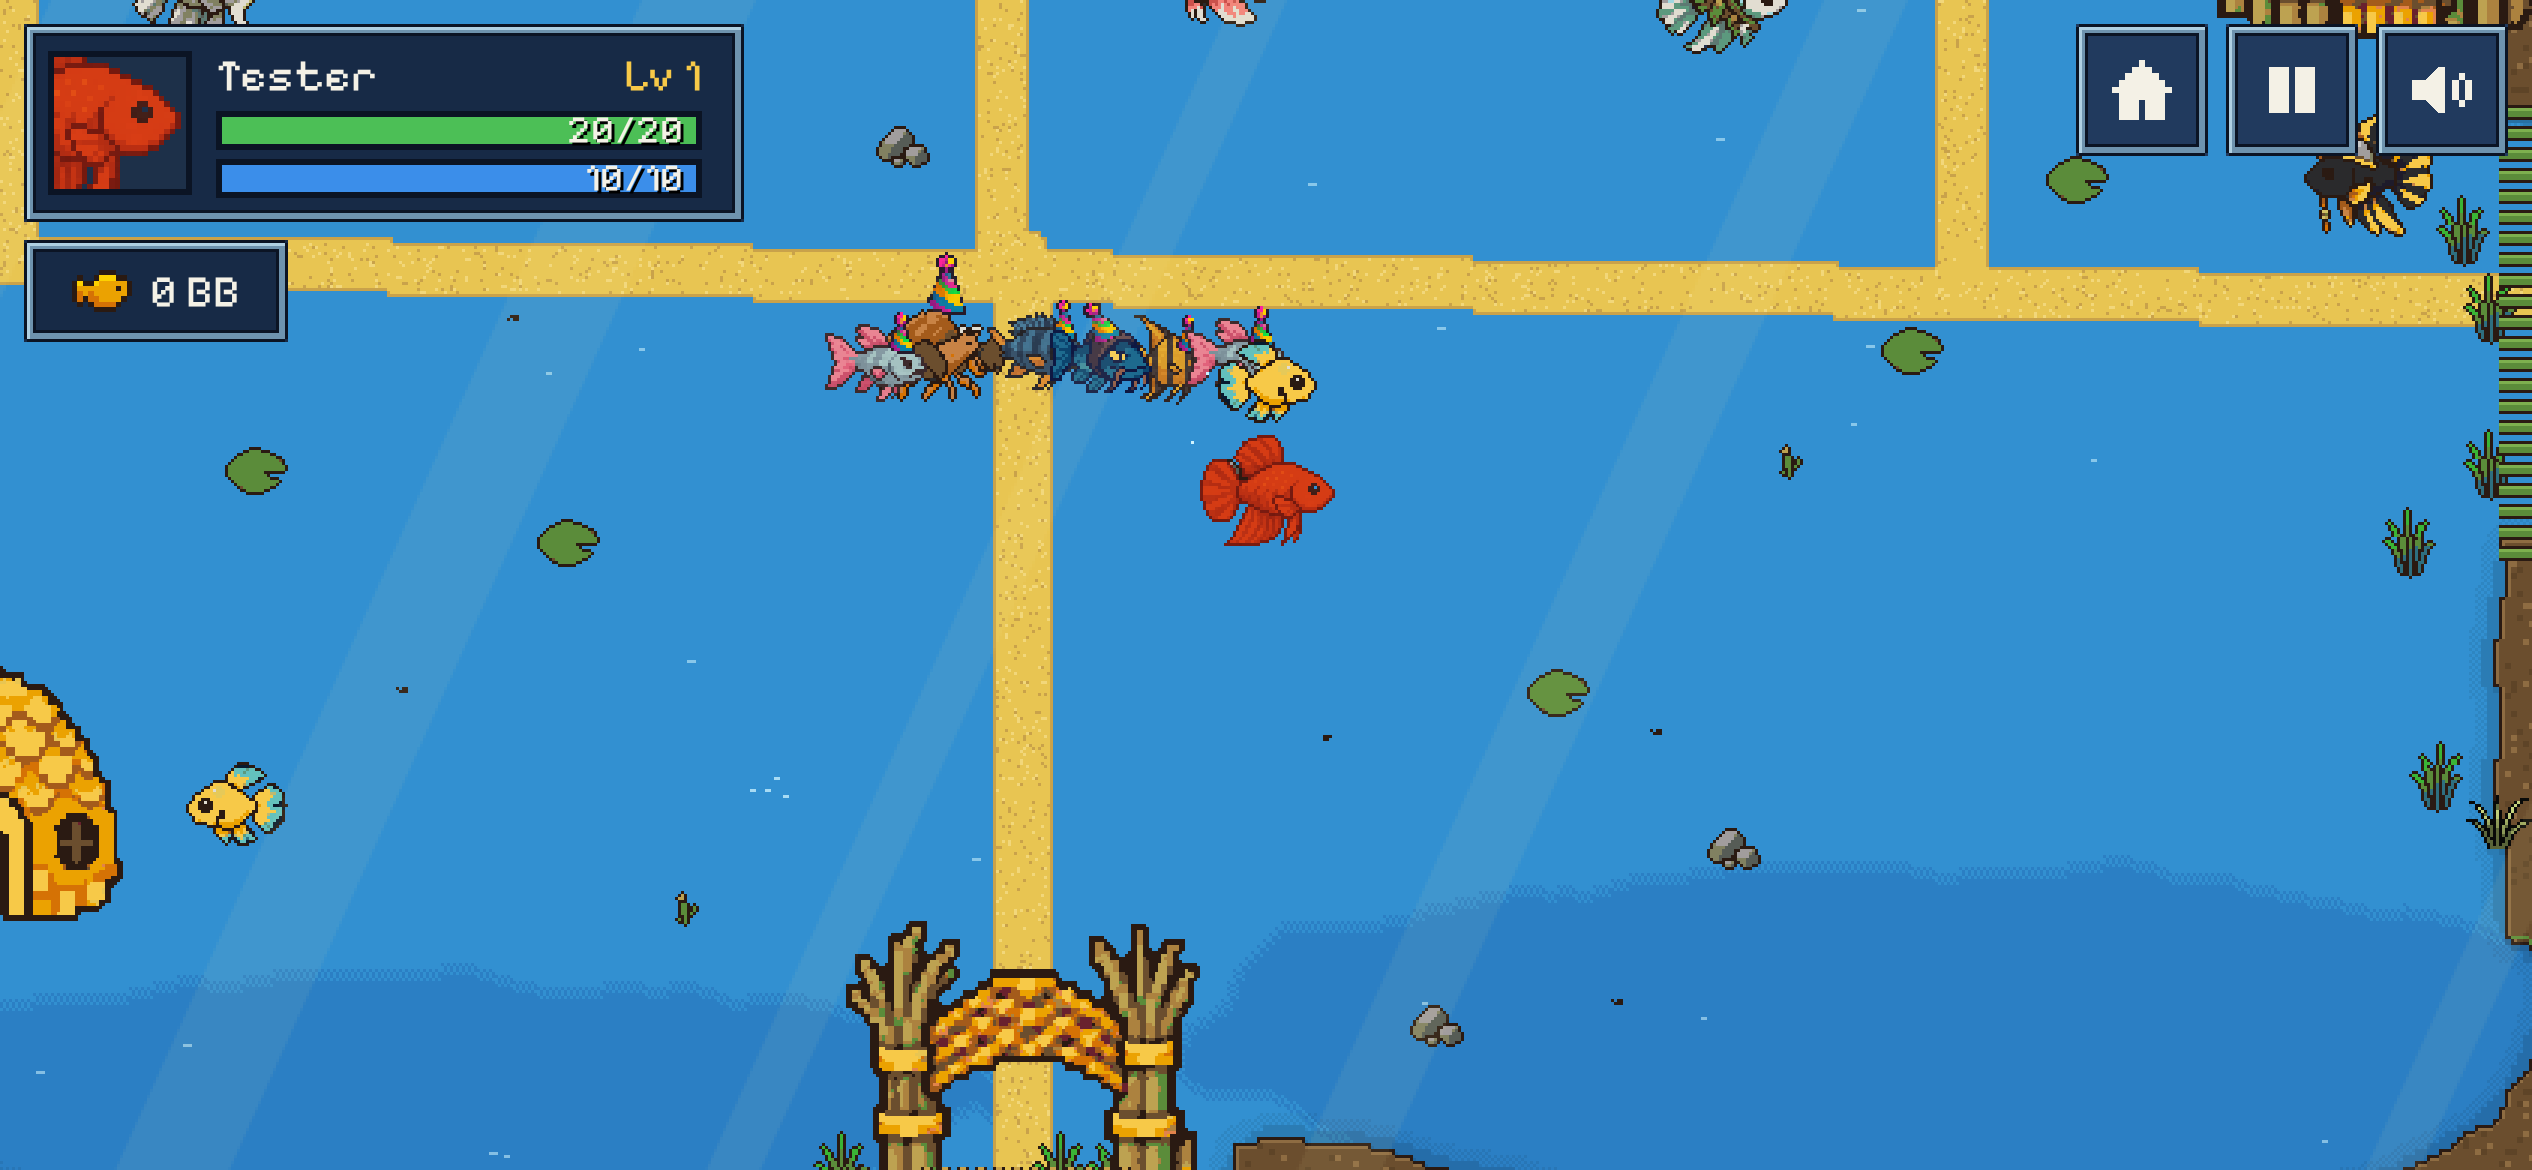
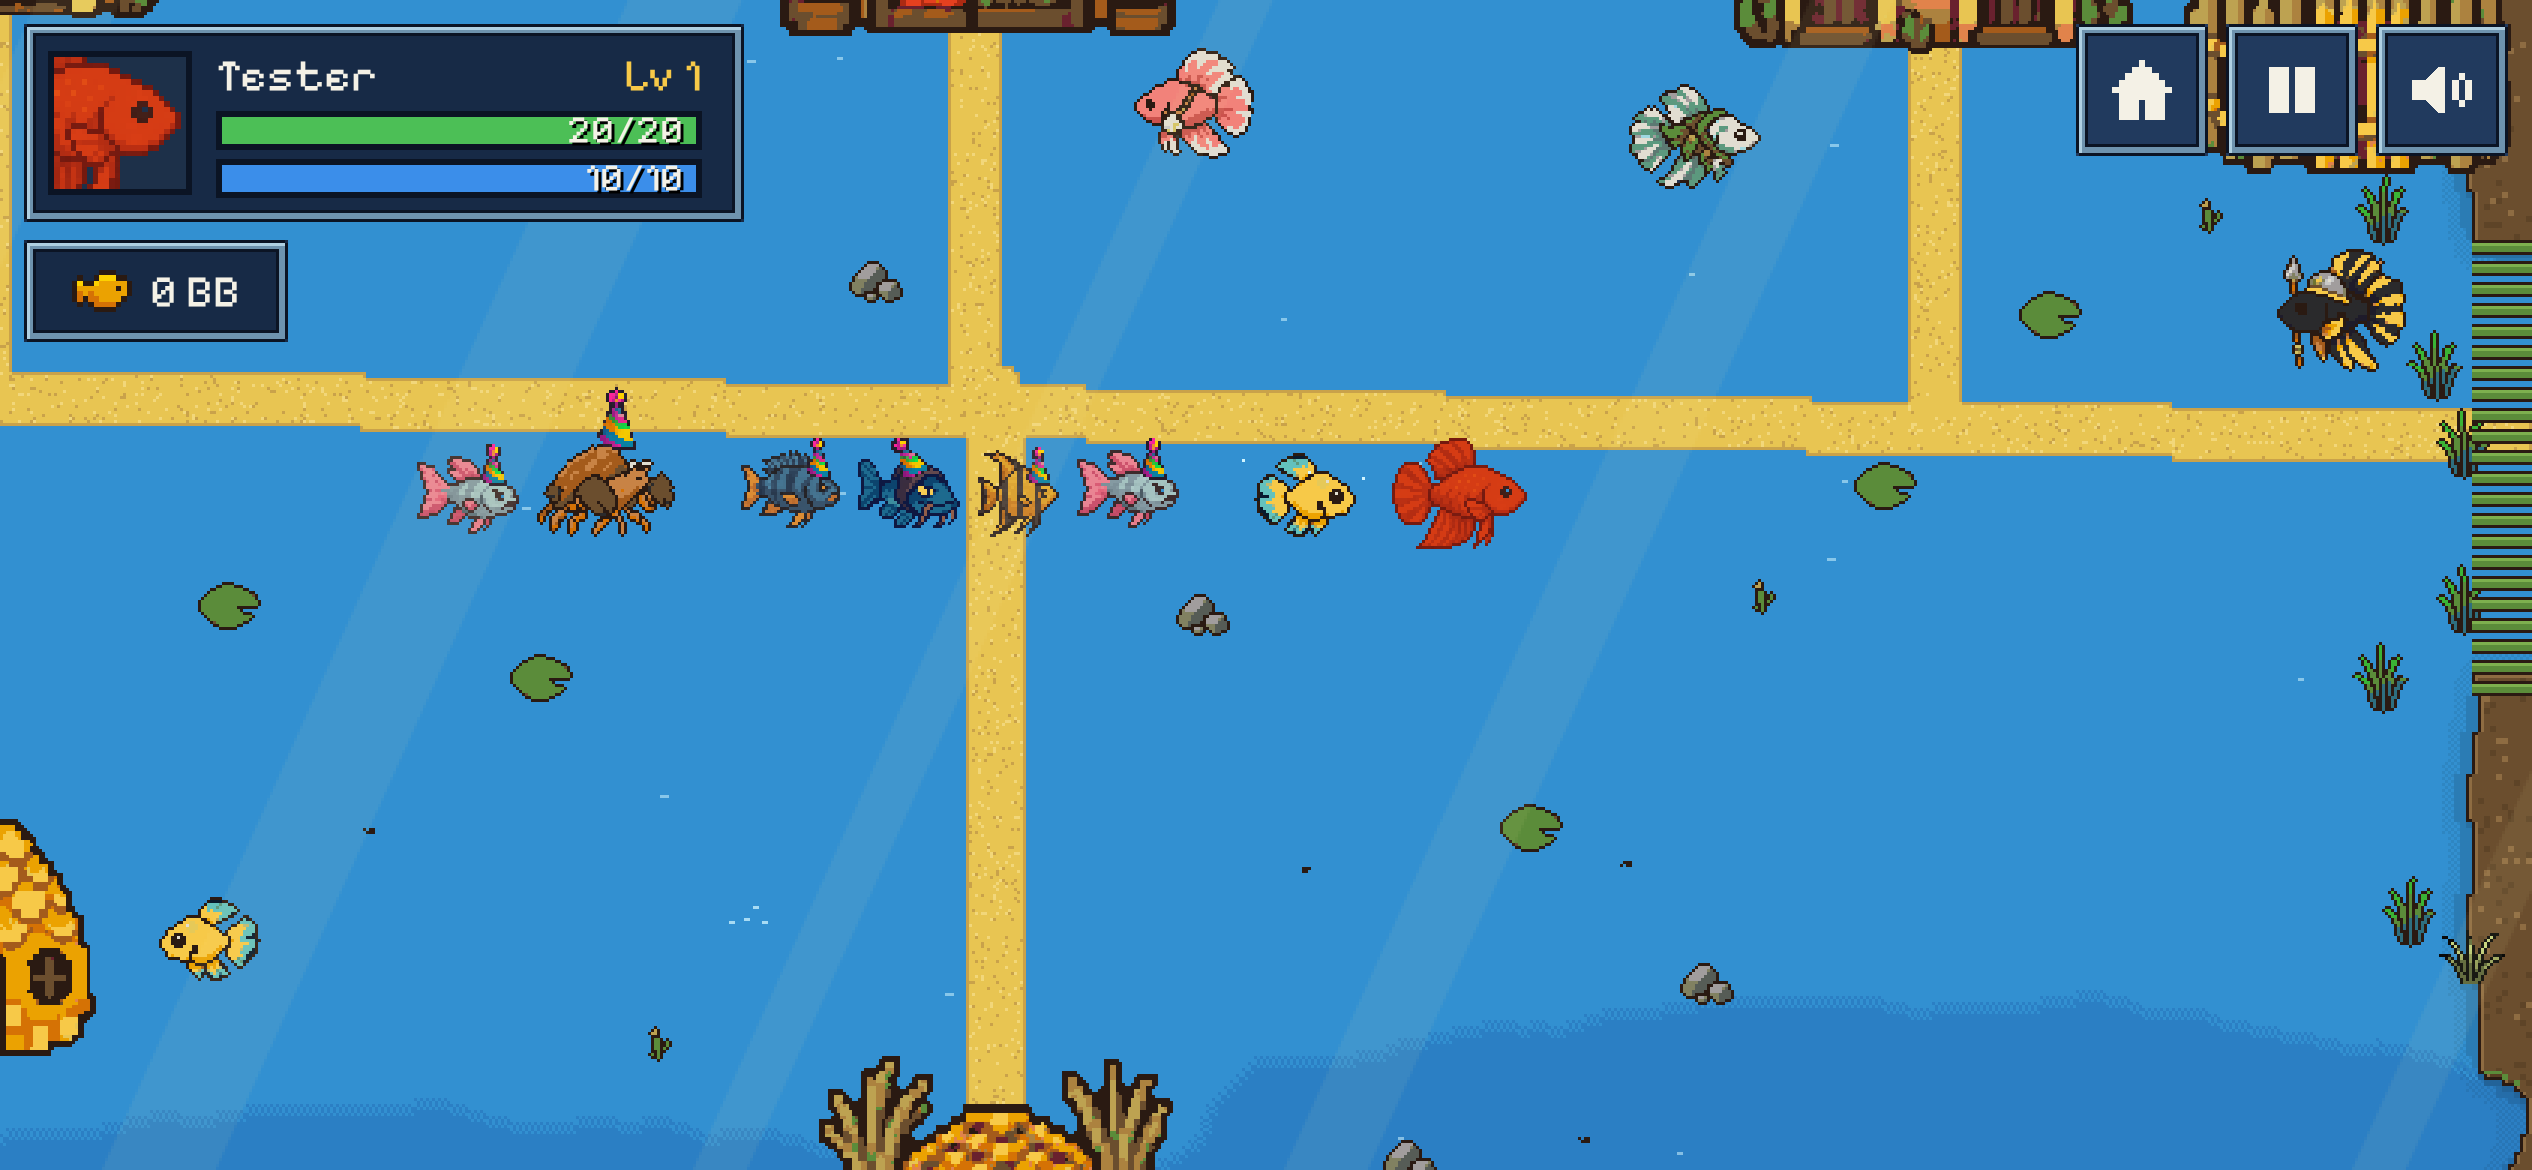
Parade spacing: friends follow your path one body length apart behind Bubble, settle in a non-overlapping arc around you when you stop, wait spaced at the top of the steps; the Gar trails last; parade screens re-checked at four sizes

diff --git a/game/src/world.js b/game/src/world.js
@@ -176,8 +176,6 @@ export class World {
     this.parade = [];
     this.paradeTrail = [{ x: p.x, y: p.y }];
     this.paradeIdle = 0;
-    const free = this.extra?.find((q) => q.id === 'snarlFree');
-    if (free) free.hidden = false;
     if (this.G.settings?.parade === false || !['village', 'highwater'].includes(this.areaId)) return;
     const party = this.areaId === 'village' && (f.peace || this.G.endingParty);   // they're at the square party
     const kinds = [];
@@ -194,39 +192,81 @@ export class World {
     }
     // the Gar trails last in the village after the friendship ending and Peace in the Paddies
     if (this.areaId === 'village' && f.garFriend && f.peace) kinds.push('gar');
-    const rng = makeRng(this.areaId === 'village' ? 4242 : 4343);
-    let gap = PARADE.bubbleCrumb;
+    // spacing: one body length apart along your path, Bubble first (it keeps its own trail)
+    const imgOf = (k) => img(k === 'gar' ? 'garboss' : k === 'snarl' ? 'snarl_free' : k);
+    const widthOf = (k) => imgOf(k)?.width || 36;
+    let dist = PARADE.bubbleDist, prevHalf = PARADE.bubbleHalf;
     kinds.forEach((k, i) => {
-      gap += PARADE.spacing + (k === 'snarl' ? PARADE.snarlExtra : k === 'gar' ? PARADE.garExtra : 0);
-      const a = rng.next() * Math.PI * 2, r = 14 + rng.next() * 26;
-      this.parade.push({ kind: k, crumb: gap, x: p.x - p.face * gap * PARADE.crumbPx, y: p.y + 4, face: p.face, t: i * 0.7,
-        spot: { dx: Math.cos(a) * r, dy: Math.sin(a) * r * 0.6 }, wait: { dx: (rng.next() - 0.5) * 80, dy: (rng.next() - 0.5) * 40 } });
+      const w = widthOf(k);
+      dist += prevHalf + w / 2 + PARADE.gapPx + (k === 'snarl' ? PARADE.snarlExtra * PARADE.crumbPx : k === 'gar' ? PARADE.garExtra * PARADE.crumbPx : 0);
+      prevHalf = w / 2;
+      this.parade.push({ kind: k, w, h: imgOf(k)?.height || 26, dist, rel: dist - PARADE.bubbleDist, x: p.x - p.face * dist, y: p.y + 2, face: p.face, t: i * 0.7 });
     });
-    // while the friend Snarl swims in the Highwater parade, its east-pool spot is empty
-    if (free && kinds.includes('snarl')) free.hidden = true;
+    this.paradeKeep = Math.ceil((dist + 160) / PARADE.crumbPx) + 4;
+    this.layoutParadeRing();
+  }
+  // Where they settle when you stop: a loose arc around you, behind you first, then round both
+  // sides; each takes the nearest free spot so no two (nor you, nor Bubble) overlap.
+  layoutParadeRing() {
+    const placed = [{ dx: 0, dy: 0, w: 50, h: 40 }, { dx: -30, dy: 4, w: 36, h: 30 }];   // you and Bubble
+    const clear = (c) => placed.every((q) => Math.abs(q.dx - c.dx) >= (q.w + c.w) / 2 + 6 || Math.abs(q.dy - c.dy) >= (q.h + c.h) / 2 + 2);
+    for (const m of this.parade) {
+      let spot = null;
+      for (let r = 0; r < 12 && !spot; r++) {
+        const rx = PARADE.ringMin + r * 22 + m.w / 2, ry = 34 + r * 16;
+        for (let k = 0; k <= 8 && !spot; k++) {   // behind and to the sides first; further out before in front
+          for (const sgn of k ? [1, -1] : [1]) {
+            const a = Math.PI + sgn * k * (Math.PI / 12);
+            const c = { dx: Math.round(Math.cos(a) * rx), dy: Math.round(Math.sin(a) * ry), w: m.w, h: Math.min(m.h, 44) };
+            if (clear(c)) { spot = c; break; }
+          }
+        }
+      }
+      spot = spot || { dx: -PARADE.ringMin - m.w, dy: 0, w: m.w, h: m.h };
+      placed.push(spot);
+      m.ring = { dx: spot.dx, dy: spot.dy };
+    }
+  }
+  // the point `d` px back along your path
+  trailPoint(d) {
+    const tr = this.paradeTrail, p = this.player;
+    let x = p.x, y = p.y, left = d;
+    for (let i = tr.length - 1; i >= 0; i--) {
+      const q = tr[i], seg = Math.hypot(x - q.x, y - q.y);
+      if (seg >= left) { const k = left / (seg || 1); return { x: x + (q.x - x) * k, y: y + (q.y - y) * k }; }
+      left -= seg; x = q.x; y = q.y;
+    }
+    // a short path (just arrived): carry on in a straight line behind the oldest point
+    const o = tr[0], o2 = tr[1] || p;
+    let ux = o.x - o2.x, uy = o.y - o2.y; const l = Math.hypot(ux, uy);
+    if (l < 0.5) { ux = -p.face; uy = 0; } else { ux /= l; uy /= l; }
+    return { x: x + ux * left, y: y + uy * left };
   }
   updateParade(dt) {
     if (!this.parade?.length) return;
     const p = this.player, tr = this.paradeTrail;
     const last = tr[tr.length - 1];
-    if (Math.hypot(last.x - p.x, last.y - p.y) >= PARADE.crumbPx) { tr.push({ x: p.x, y: p.y }); if (tr.length > PARADE.keep) tr.shift(); }
+    if (Math.hypot(last.x - p.x, last.y - p.y) >= PARADE.crumbPx) { tr.push({ x: p.x, y: p.y }); if (tr.length > this.paradeKeep) tr.shift(); }
     this.paradeIdle = p.moving ? 0 : this.paradeIdle + dt;
     const waiting = this.areaId === 'highwater' && p.y >= PARADE.cityBelowY;   // they wait at the top of the steps
+    const idle = this.paradeIdle > PARADE.idleAfter;
+    const fside = p.face || 1;
+    // Bubble goes first: the line starts behind wherever Bubble really is (it lags when you're fast)
+    const bub = this.s.flags.bubbleJoined ? Math.hypot(this.bubble.x - p.x, this.bubble.y - p.y) + 6 : 0;
+    const base = Math.max(PARADE.bubbleDist, bub);
     for (const m of this.parade) {
       m.t += dt;
       let tx, ty;
-      if (waiting) { tx = PARADE.waitAt.x + m.wait.dx; ty = PARADE.waitAt.y + m.wait.dy; }
-      else if (this.paradeIdle > PARADE.idleAfter) { tx = p.x + m.spot.dx; ty = p.y + m.spot.dy; }
-      else {
-        const c = tr[tr.length - 1 - m.crumb];
-        if (c) { tx = c.x; ty = c.y; } else { const o = tr[0]; tx = o.x - p.face * (m.crumb - tr.length) * PARADE.crumbPx; ty = o.y; }
-      }
+      if (waiting) { tx = PARADE.waitAt.x + m.ring.dx; ty = PARADE.waitAt.y + m.ring.dy * 0.8; }
+      else if (idle) { tx = p.x + m.ring.dx * fside; ty = p.y + m.ring.dy; }
+      else { const c = this.trailPoint(base + m.rel); tx = c.x; ty = c.y; }
       const dx = tx - m.x, dy = ty - m.y, d = Math.hypot(dx, dy);
       if (d > 400) { m.x = tx; m.y = ty; continue; }
-      const k = Math.min(1, dt * (waiting ? 2 : 5));
+      const k = Math.min(1, dt * (waiting ? 2 : idle ? 3 : 9));
       m.x += dx * k; m.y += dy * k;
       m.moving = d > 3;
       if (Math.abs(dx) > 2) m.face = dx > 0 ? 1 : -1;
+      else if (idle && !m.moving) m.face = p.x > m.x ? 1 : -1;   // settled: face you
     }
   }
   drawParadeMember(ctx, m) {
@@ -514,7 +554,7 @@ export class World {
       if (d < r && d < bd + (r - WORLD.talkRange)) { bd = d; best = { kind, ref, x, y }; }
     };
     for (const n of this.npcs) consider('npc', n, n.x, n.y);
-    for (const n of this.extra) if (n.talk) consider('extra', n, n.x, n.y, n.talkRange || WORLD.talkRange);
+    for (const n of this.extra) if (n.talk && !n.hidden) consider('extra', n, n.x, n.y, n.talkRange || WORLD.talkRange);
     for (const f of this.friends) consider('friend', f, f.x, f.y, 26);
     // Bubble only when nobody else is in reach (Bubble swims right beside you)
     for (const g of this.def.gates || []) {

diff --git a/tools/screens-change1.js b/tools/screens-change1.js
@@ -162,20 +162,38 @@ async (page) => {
   await p.evaluate(async () => { await window.__game.goToLevel(0); window.__game.set({ flags: { bubbleJoined: true }, friends: { guppy: 2, angel: 1, cat: 1, cich: 1, snarl: 1 }, pos: { x: 512, y: 330 } }); });
   await sleep(800);
   const swim = async (k, ms) => { await p.keyboard.down(k); await sleep(ms); await p.keyboard.up(k); };
-  await swim('ArrowRight', 900); await swim('ArrowDown', 500); await sleep(150);
+  // swimming: a spaced line behind Bubble; stopped: a loose ring
+  await p.keyboard.down('ArrowRight'); await sleep(1300);
+  await shot('parade-village');
+  await p.keyboard.up('ArrowRight'); await sleep(2200);
+  await shot('parade-village-stop');
   s = await st();
   check(s.parade === 6 && s.paradeKinds.join() === 'guppy,angel,cat,cich,snarl,guppy', `village parade of 6 in rotation (${s.paradeKinds.join()})`);
-  await shot('parade-village');
+  { const ov = s.paradeAt.concat([['bubble', ...s.bubbleAt], ['you', s.player.x, s.player.y]]);
+    check(ov.every((a, i) => ov.every((b, j) => j <= i || Math.abs(a[1] - b[1]) > 24 || Math.abs(a[2] - b[2]) > 18)), 'settled parade: no two overlap (village)'); }
   await p.evaluate(async () => { await window.__game.goToLevel(3, { afterSnarl: true }); window.__game.set({ flags: { snarlFriend: true }, friends: { guppy: 2, angel: 1, snarl: 1 }, pos: { x: 768, y: 380 } }); });
   await sleep(800);
-  await swim('ArrowLeft', 900); await swim('ArrowUp', 300); await sleep(150);
-  s = await st();
-  check(s.parade === 4 && !s.extras.includes('snarlFree'), 'Highwater parade with the Snarl (its pool spot empty)');
+  await p.keyboard.down('ArrowLeft'); await sleep(1300);
   await shot('parade-highwater');
+  await p.keyboard.up('ArrowLeft'); await sleep(2200);
+  await shot('parade-highwater-stop');
+  s = await st();
+  check(s.parade === 4 && !s.extras.includes('snarlFree'), `Highwater parade with the Snarl (its pool spot empty) (${s.parade} ${s.paradeKinds.join()} ${s.extras.join()})`);
+  // no two parade fish overlap once settled
+  const ov = s.paradeAt.concat([['bubble', ...s.bubbleAt], ['you', s.player.x, s.player.y]]);
+  check(ov.every((a, i) => ov.every((b, j) => j <= i || Math.abs(a[1] - b[1]) > 24 || Math.abs(a[2] - b[2]) > 18)), 'settled parade: no two overlap (Highwater)');
   await p.evaluate(() => window.__game.set({ pos: { x: 768, y: 700 } }));
   await sleep(2500);
   s = await st();
-  check(s.parade === 4, 'below the steps the parade waits at the top');
+  check(s.parade === 4 && s.paradeAt.every((m) => m[2] < 470), 'below the steps the parade waits at the top');
+  // the Gar trails last in the village after the friendship ending and Peace in the Paddies
+  await p.evaluate(async () => { await window.__game.goToLevel(0); window.__game.set({ flags: { bubbleJoined: true, garFriend: true, peace: true }, pos: { x: 300, y: 330 } }); });
+  await sleep(600);
+  await p.keyboard.down('ArrowRight'); await sleep(1800);
+  await shot('parade-gar');
+  await p.keyboard.up('ArrowRight');
+  s = await st();
+  check(s.paradeKinds.join() === 'gar' && s.paradeAt[0][1] < s.bubbleAt[0] - 100, 'the Gar trails last, clear of Bubble');
   out.errors = errors;
   await ctx.close();
   return JSON.stringify(out, null, 1);

diff --git a/game/src/main.js b/game/src/main.js
@@ -1207,7 +1207,7 @@ function stateSnapshot() {
     input: input.device, padId: input.padId || null, tick: G.tick, lastBattle: G.lastBattle || null,
     ngPlus: s.ngPlus || 0, lastEnding: s.lastEnding || null, slot: G.slot || null, parade: w?.parade?.length || 0,
     snarl: { done: !!s.flags.snarlDone, friend: !!s.flags.snarlFriend },
-    extras: w ? w.extra.filter((n) => !n.hidden).map((n) => n.id) : [], paradeKinds: w?.parade?.map((m) => m.kind) || [],
+    extras: w ? w.extra.filter((n) => !n.hidden).map((n) => n.id) : [], paradeKinds: w?.parade?.map((m) => m.kind) || [], paradeAt: w?.parade?.map((m) => [m.kind, Math.round(m.x), Math.round(m.y)]) || [], bubbleAt: w ? [Math.round(w.bubble.x), Math.round(w.bubble.y)] : null,
   };
 }
 // The play-test hook, only with ?debug in the address.
@@ -1265,7 +1265,7 @@ if (new URLSearchParams(location.search).has('debug')) window.__game = {
     if (o.cogs !== undefined) s.cogs = Array.isArray(o.cogs) ? o.cogs : ['c1', 'c2', 'c3'].slice(0, o.cogs);
     if (o.pos && G.world) { G.world.player.x = o.pos.x; G.world.player.y = o.pos.y; G.world.camSnap(); }
     if (o.parade !== undefined) G.settings.parade = !!o.parade;   // for this session only
-    if ((o.friends || o.flags || o.parade !== undefined) && G.world) G.world.buildParade();
+    if ((o.friends || o.flags || o.pos || o.parade !== undefined) && G.world) G.world.buildParade();
     hudKey = '';
     return stateSnapshot();
   },

diff --git a/game/src/config.js b/game/src/config.js
@@ -138,8 +138,10 @@ export const CATCH_UP = { shallows: 3, reedwater: 5, highwater: 6, murk: 7, ditc
 export const REEF_FRIENDS = 3;
 export const SPILLWAY_SPRING = { x: 700, y: 836 };
 // The friends' parade: breadcrumbs every 4 px, keep 80; Bubble at crumb 6, friend i at 6 + 5i
-export const PARADE = { max: 6, order: ['guppy', 'angel', 'cat', 'nymph', 'cich', 'cray', 'snarl'], crumbPx: 4, keep: 80,
-  bubbleCrumb: 6, spacing: 5, snarlExtra: 4, garExtra: 12, idleAfter: 0.5, cityBelowY: 470, waitAt: { x: 768, y: 400 } };
+// (spacing reworked after review: one body length apart along the path, measured in px)
+export const PARADE = { max: 6, order: ['guppy', 'angel', 'cat', 'nymph', 'cich', 'cray', 'snarl'], crumbPx: 4,
+  bubbleDist: 40, bubbleHalf: 22, gapPx: 6, snarlExtra: 4, garExtra: 12, idleAfter: 0.5, ringGap: 10, ringMin: 44,
+  cityBelowY: 470, waitAt: { x: 768, y: 400 } };
 // Whorl hands over the lantern (the way into the Murk) from this level
 export const LANTERN_LEVEL = 5;
 export const AREA_START = {

diff --git a/game/src/story.js b/game/src/story.js
@@ -54,7 +54,9 @@ export function createStory(G) {
     } else {
       w.extra.push({ id: 'tornNet', x: SNARL.netPos.x, y: SNARL.netPos.y, t: 0, sortOff: -60, draw: (ctx, n) => { const c = img('torn_net'); if (c) ctx.drawImage(c, Math.round(n.x - c.width / 2), Math.round(n.y - c.height / 2)); } });
       w.extra.push({ id: 'snarlFree', x: SNARL.freePos.x, y: SNARL.freePos.y, face: -1, t: 0, sortOff: 0, talk: true, talkRange: 46,
-        hat: !!f.snarlFriend, draw: drawSnarlFree });
+        hat: !!f.snarlFriend, draw: drawSnarlFree,
+        // while the friend Snarl swims in the Highwater parade, its east-pool spot is empty
+        get hidden() { return !!w.parade?.some((m) => m.kind === 'snarl'); } });
     }
   }
   function drawSnarl(ctx, n, t) {
